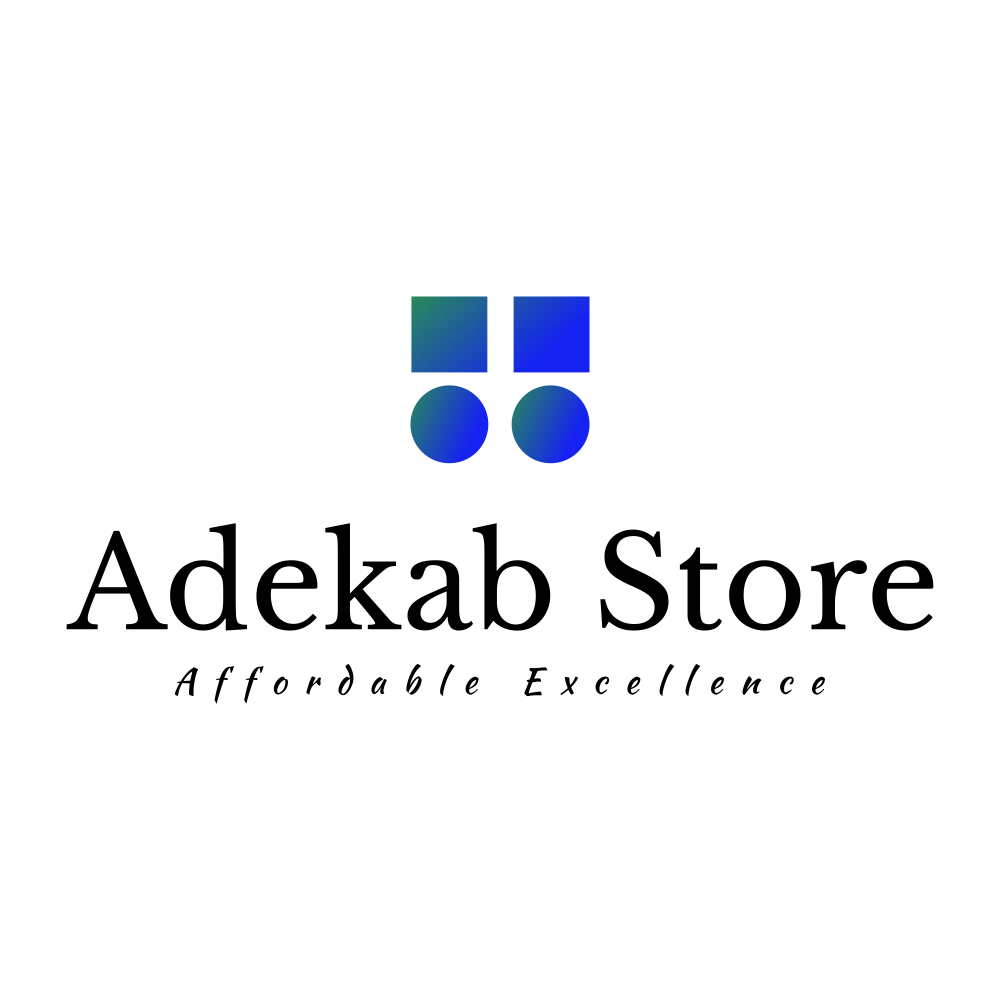
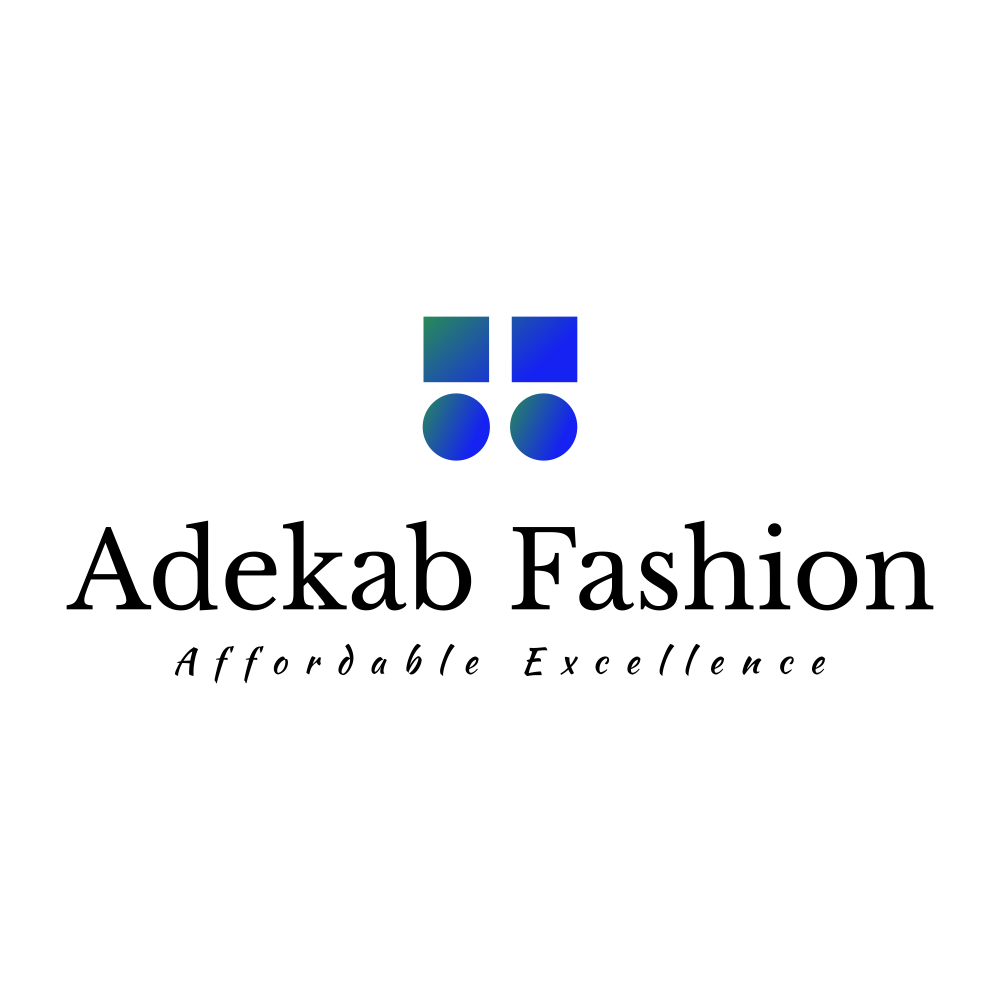
project

Changed region(s): [[0.062, 0.496, 0.93, 0.713], [0.403, 0.279, 0.589, 0.465]]

diff --git a/contacts.html b/contacts.html
@@ -4,13 +4,13 @@
 <head>
     <meta charset="utf-8">
     <meta name="viewport" content="width=device-width, initial-scale=1.0, shrink-to-fit=no">
-    <title>Quality And Affordability Is Our Priority</title>
+    <title>Contacts - Brand</title>
     <link rel="canonical" href="https://www.adekab.store/contacts.html">
     <meta property="og:url" content="https://www.adekab.store/contacts.html">
-    <meta name="description" content="In the dynamic world of online shopping, where choices abound and convenience is paramount, Adekab Store emerges as a trailblazing platform that brings you a curated selection of affordable top-tier products in an easily navigable online store.">
-    <meta property="og:image" content="https://www.adekab.store/assets/img/default.png">
-    <meta property="og:type" content="website">
+    <meta name="description" content="In the dynamic world of online shopping, where choices abound and convenience is paramount, Adekab Store emerges as a trailblazing platform that brings you a curated selection of affordable top-tier fashion products in an easily navigable online store.">
     <meta name="twitter:card" content="summary_large_image">
+    <meta property="og:type" content="website">
+    <meta property="og:image" content="https://www.adekab.store/assets/img/default.png">
     <link rel="icon" type="image/png" sizes="1000x1000" href="assets/img/default.png">
     <link rel="stylesheet" href="assets/bootstrap/css/bootstrap.min.css">
     <link rel="stylesheet" href="https://cdn.reflowhq.com/v2/toolkit.min.css">

diff --git a/cart.html b/cart.html
@@ -4,13 +4,13 @@
 <head>
     <meta charset="utf-8">
     <meta name="viewport" content="width=device-width, initial-scale=1.0, shrink-to-fit=no">
-    <title>Quality And Affordability Is Our Priority</title>
+    <title>Pricing - Brand</title>
     <link rel="canonical" href="https://www.adekab.store/cart.html">
     <meta property="og:url" content="https://www.adekab.store/cart.html">
-    <meta name="description" content="In the dynamic world of online shopping, where choices abound and convenience is paramount, Adekab Store emerges as a trailblazing platform that brings you a curated selection of affordable top-tier products in an easily navigable online store.">
-    <meta property="og:image" content="https://www.adekab.store/assets/img/default.png">
-    <meta property="og:type" content="website">
+    <meta name="description" content="In the dynamic world of online shopping, where choices abound and convenience is paramount, Adekab Store emerges as a trailblazing platform that brings you a curated selection of affordable top-tier fashion products in an easily navigable online store.">
     <meta name="twitter:card" content="summary_large_image">
+    <meta property="og:type" content="website">
+    <meta property="og:image" content="https://www.adekab.store/assets/img/default.png">
     <link rel="icon" type="image/png" sizes="1000x1000" href="assets/img/default.png">
     <link rel="stylesheet" href="assets/bootstrap/css/bootstrap.min.css">
     <link rel="stylesheet" href="https://cdn.reflowhq.com/v2/toolkit.min.css">

diff --git a/index.html b/index.html
@@ -7,15 +7,15 @@
     <title>Quality And Affordability Is Our Priority</title>
     <link rel="canonical" href="https://www.adekab.store/">
     <meta property="og:url" content="https://www.adekab.store/">
-    <meta name="description" content="In the dynamic world of online shopping, where choices abound and convenience is paramount, Adekab Store emerges as a trailblazing platform that brings you a curated selection of affordable top-tier products in an easily navigable online store.">
-    <meta property="og:image" content="https://www.adekab.store/assets/img/default.png">
-    <meta property="og:type" content="website">
+    <meta name="description" content="In the dynamic world of online shopping, where choices abound and convenience is paramount, Adekab Store emerges as a trailblazing platform that brings you a curated selection of affordable top-tier fashion products in an easily navigable online store.">
     <meta name="twitter:card" content="summary_large_image">
+    <meta property="og:type" content="website">
+    <meta property="og:image" content="https://www.adekab.store/assets/img/default.png">
     <script type="application/ld+json">
         {
             "@context": "http://schema.org",
             "@type": "WebSite",
-            "name": "Adekab Store",
+            "name": "Adekab Fashion",
             "url": "https://www.adekab.store"
         }
     </script>

diff --git a/notfound.html b/notfound.html
@@ -7,10 +7,10 @@
     <title>Quality And Affordability Is Our Priority</title>
     <link rel="canonical" href="https://www.adekab.store/notfound.html">
     <meta property="og:url" content="https://www.adekab.store/notfound.html">
-    <meta name="description" content="In the dynamic world of online shopping, where choices abound and convenience is paramount, Adekab Store emerges as a trailblazing platform that brings you a curated selection of affordable top-tier products in an easily navigable online store.">
-    <meta property="og:image" content="https://www.adekab.store/assets/img/default.png">
-    <meta property="og:type" content="website">
+    <meta name="description" content="In the dynamic world of online shopping, where choices abound and convenience is paramount, Adekab Store emerges as a trailblazing platform that brings you a curated selection of affordable top-tier fashion products in an easily navigable online store.">
     <meta name="twitter:card" content="summary_large_image">
+    <meta property="og:type" content="website">
+    <meta property="og:image" content="https://www.adekab.store/assets/img/default.png">
     <link rel="icon" type="image/png" sizes="1000x1000" href="assets/img/default.png">
     <link rel="stylesheet" href="assets/bootstrap/css/bootstrap.min.css">
     <link rel="stylesheet" href="https://cdn.reflowhq.com/v2/toolkit.min.css">

diff --git a/products.html b/products.html
@@ -7,10 +7,10 @@
     <title>Quality And Affordability Is Our Priority</title>
     <link rel="canonical" href="https://www.adekab.store/products.html">
     <meta property="og:url" content="https://www.adekab.store/products.html">
-    <meta name="description" content="In the dynamic world of online shopping, where choices abound and convenience is paramount, Adekab Store emerges as a trailblazing platform that brings you a curated selection of affordable top-tier products in an easily navigable online store.">
-    <meta property="og:image" content="https://www.adekab.store/assets/img/default.png">
-    <meta property="og:type" content="website">
+    <meta name="description" content="In the dynamic world of online shopping, where choices abound and convenience is paramount, Adekab Store emerges as a trailblazing platform that brings you a curated selection of affordable top-tier fashion products in an easily navigable online store.">
     <meta name="twitter:card" content="summary_large_image">
+    <meta property="og:type" content="website">
+    <meta property="og:image" content="https://www.adekab.store/assets/img/default.png">
     <link rel="icon" type="image/png" sizes="1000x1000" href="assets/img/default.png">
     <link rel="stylesheet" href="assets/bootstrap/css/bootstrap.min.css">
     <link rel="stylesheet" href="https://cdn.reflowhq.com/v2/toolkit.min.css">

diff --git a/services.html b/services.html
@@ -7,10 +7,10 @@
     <title>Quality And Affordability Is Our Priority</title>
     <link rel="canonical" href="https://www.adekab.store/services.html">
     <meta property="og:url" content="https://www.adekab.store/services.html">
-    <meta name="description" content="In the dynamic world of online shopping, where choices abound and convenience is paramount, Adekab Store emerges as a trailblazing platform that brings you a curated selection of affordable top-tier products in an easily navigable online store.">
-    <meta property="og:image" content="https://www.adekab.store/assets/img/default.png">
-    <meta property="og:type" content="website">
+    <meta name="description" content="In the dynamic world of online shopping, where choices abound and convenience is paramount, Adekab Store emerges as a trailblazing platform that brings you a curated selection of affordable top-tier fashion products in an easily navigable online store.">
     <meta name="twitter:card" content="summary_large_image">
+    <meta property="og:type" content="website">
+    <meta property="og:image" content="https://www.adekab.store/assets/img/default.png">
     <link rel="icon" type="image/png" sizes="1000x1000" href="assets/img/default.png">
     <link rel="stylesheet" href="assets/bootstrap/css/bootstrap.min.css">
     <link rel="stylesheet" href="https://cdn.reflowhq.com/v2/toolkit.min.css">

diff --git a/privacy.html b/privacy.html
@@ -7,10 +7,10 @@
     <title>Quality And Affordability Is Our Priority</title>
     <link rel="canonical" href="https://www.adekab.store/privacy.html">
     <meta property="og:url" content="https://www.adekab.store/privacy.html">
-    <meta name="description" content="In the dynamic world of online shopping, where choices abound and convenience is paramount, Adekab Store emerges as a trailblazing platform that brings you a curated selection of affordable top-tier products in an easily navigable online store.">
-    <meta property="og:image" content="https://www.adekab.store/assets/img/default.png">
-    <meta property="og:type" content="website">
+    <meta name="description" content="In the dynamic world of online shopping, where choices abound and convenience is paramount, Adekab Store emerges as a trailblazing platform that brings you a curated selection of affordable top-tier fashion products in an easily navigable online store.">
     <meta name="twitter:card" content="summary_large_image">
+    <meta property="og:type" content="website">
+    <meta property="og:image" content="https://www.adekab.store/assets/img/default.png">
     <link rel="icon" type="image/png" sizes="1000x1000" href="assets/img/default.png">
     <link rel="stylesheet" href="assets/bootstrap/css/bootstrap.min.css">
     <link rel="stylesheet" href="https://cdn.reflowhq.com/v2/toolkit.min.css">

diff --git a/orders.html b/orders.html
@@ -7,10 +7,10 @@
     <title>Quality And Affordability Is Our Priority</title>
     <link rel="canonical" href="https://www.adekab.store/orders.html">
     <meta property="og:url" content="https://www.adekab.store/orders.html">
-    <meta name="description" content="In the dynamic world of online shopping, where choices abound and convenience is paramount, Adekab Store emerges as a trailblazing platform that brings you a curated selection of affordable top-tier products in an easily navigable online store.">
-    <meta property="og:image" content="https://www.adekab.store/assets/img/default.png">
-    <meta property="og:type" content="website">
+    <meta name="description" content="In the dynamic world of online shopping, where choices abound and convenience is paramount, Adekab Store emerges as a trailblazing platform that brings you a curated selection of affordable top-tier fashion products in an easily navigable online store.">
     <meta name="twitter:card" content="summary_large_image">
+    <meta property="og:type" content="website">
+    <meta property="og:image" content="https://www.adekab.store/assets/img/default.png">
     <link rel="icon" type="image/png" sizes="1000x1000" href="assets/img/default.png">
     <link rel="stylesheet" href="assets/bootstrap/css/bootstrap.min.css">
     <link rel="stylesheet" href="https://cdn.reflowhq.com/v2/toolkit.min.css">

diff --git a/refund.html b/refund.html
@@ -7,10 +7,10 @@
     <title>Quality And Affordability Is Our Priority</title>
     <link rel="canonical" href="https://www.adekab.store/refund.html">
     <meta property="og:url" content="https://www.adekab.store/refund.html">
-    <meta name="description" content="In the dynamic world of online shopping, where choices abound and convenience is paramount, Adekab Store emerges as a trailblazing platform that brings you a curated selection of affordable top-tier products in an easily navigable online store.">
-    <meta property="og:image" content="https://www.adekab.store/assets/img/default.png">
-    <meta property="og:type" content="website">
+    <meta name="description" content="In the dynamic world of online shopping, where choices abound and convenience is paramount, Adekab Store emerges as a trailblazing platform that brings you a curated selection of affordable top-tier fashion products in an easily navigable online store.">
     <meta name="twitter:card" content="summary_large_image">
+    <meta property="og:type" content="website">
+    <meta property="og:image" content="https://www.adekab.store/assets/img/default.png">
     <link rel="icon" type="image/png" sizes="1000x1000" href="assets/img/default.png">
     <link rel="stylesheet" href="assets/bootstrap/css/bootstrap.min.css">
     <link rel="stylesheet" href="https://cdn.reflowhq.com/v2/toolkit.min.css">

diff --git a/order.html b/order.html
@@ -7,10 +7,10 @@
     <title>Quality And Affordability Is Our Priority</title>
     <link rel="canonical" href="https://www.adekab.store/order.html">
     <meta property="og:url" content="https://www.adekab.store/order.html">
-    <meta name="description" content="In the dynamic world of online shopping, where choices abound and convenience is paramount, Adekab Store emerges as a trailblazing platform that brings you a curated selection of affordable top-tier products in an easily navigable online store.">
-    <meta property="og:image" content="https://www.adekab.store/assets/img/default.png">
-    <meta property="og:type" content="website">
+    <meta name="description" content="In the dynamic world of online shopping, where choices abound and convenience is paramount, Adekab Store emerges as a trailblazing platform that brings you a curated selection of affordable top-tier fashion products in an easily navigable online store.">
     <meta name="twitter:card" content="summary_large_image">
+    <meta property="og:type" content="website">
+    <meta property="og:image" content="https://www.adekab.store/assets/img/default.png">
     <link rel="icon" type="image/png" sizes="1000x1000" href="assets/img/default.png">
     <link rel="stylesheet" href="assets/bootstrap/css/bootstrap.min.css">
     <link rel="stylesheet" href="https://cdn.reflowhq.com/v2/toolkit.min.css">

diff --git a/terms.html b/terms.html
@@ -7,10 +7,10 @@
     <title>Quality And Affordability Is Our Priority</title>
     <link rel="canonical" href="https://www.adekab.store/terms.html">
     <meta property="og:url" content="https://www.adekab.store/terms.html">
-    <meta name="description" content="In the dynamic world of online shopping, where choices abound and convenience is paramount, Adekab Store emerges as a trailblazing platform that brings you a curated selection of affordable top-tier products in an easily navigable online store.">
-    <meta property="og:image" content="https://www.adekab.store/assets/img/default.png">
-    <meta property="og:type" content="website">
+    <meta name="description" content="In the dynamic world of online shopping, where choices abound and convenience is paramount, Adekab Store emerges as a trailblazing platform that brings you a curated selection of affordable top-tier fashion products in an easily navigable online store.">
     <meta name="twitter:card" content="summary_large_image">
+    <meta property="og:type" content="website">
+    <meta property="og:image" content="https://www.adekab.store/assets/img/default.png">
     <link rel="icon" type="image/png" sizes="1000x1000" href="assets/img/default.png">
     <link rel="stylesheet" href="assets/bootstrap/css/bootstrap.min.css">
     <link rel="stylesheet" href="https://cdn.reflowhq.com/v2/toolkit.min.css">

diff --git a/user.html b/user.html
@@ -7,10 +7,10 @@
     <title>Quality And Affordability Is Our Priority</title>
     <link rel="canonical" href="https://www.adekab.store/user.html">
     <meta property="og:url" content="https://www.adekab.store/user.html">
-    <meta name="description" content="In the dynamic world of online shopping, where choices abound and convenience is paramount, Adekab Store emerges as a trailblazing platform that brings you a curated selection of affordable top-tier products in an easily navigable online store.">
-    <meta property="og:image" content="https://www.adekab.store/assets/img/default.png">
-    <meta property="og:type" content="website">
+    <meta name="description" content="In the dynamic world of online shopping, where choices abound and convenience is paramount, Adekab Store emerges as a trailblazing platform that brings you a curated selection of affordable top-tier fashion products in an easily navigable online store.">
     <meta name="twitter:card" content="summary_large_image">
+    <meta property="og:type" content="website">
+    <meta property="og:image" content="https://www.adekab.store/assets/img/default.png">
     <link rel="icon" type="image/png" sizes="1000x1000" href="assets/img/default.png">
     <link rel="stylesheet" href="assets/bootstrap/css/bootstrap.min.css">
     <link rel="stylesheet" href="https://cdn.reflowhq.com/v2/toolkit.min.css">
